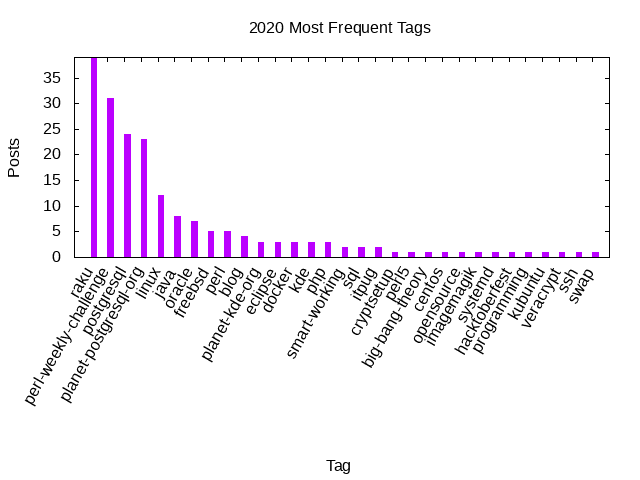
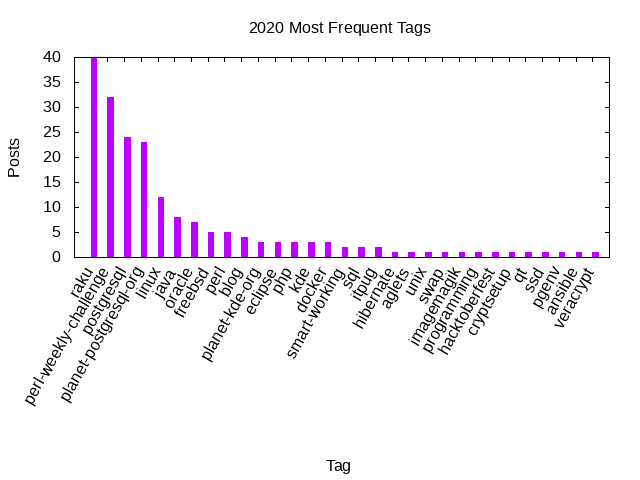
Update stats

diff --git a/_includes/stats/2020.md b/_includes/stats/2020.md
@@ -1,11 +1,11 @@
 ## 2020 (work in progress)
 
-**95 total posts** have been written on 2020.
+**96 total posts** have been written on 2020.
 There have been *52 different tags* used, the most
 popular being (sorted by number of posts):
  
-- *raku* (39 posts)  
-- *perl-weekly-challenge* (31 posts)  
+- *raku* (40 posts)  
+- *perl-weekly-challenge* (32 posts)  
 - *postgresql* (24 posts)  
 - *planet-postgresql-org* (23 posts)  
 - *linux* (12 posts)  
@@ -16,25 +16,25 @@ popular being (sorted by number of posts):
 - *blog* (4 posts)  
 - *planet-kde-org* (3 posts)  
 - *eclipse* (3 posts)  
-- *docker* (3 posts)  
-- *kde* (3 posts)  
 - *php* (3 posts)  
+- *kde* (3 posts)  
+- *docker* (3 posts)  
 - *smart-working* (2 posts)  
 - *sql* (2 posts)  
 - *itpug* (2 posts)  
-- *cryptsetup* (1 posts)  
-- *perl5* (1 posts)  
-- *big-bang-theory* (1 posts)  
-- *centos* (1 posts)  
-- *opensource* (1 posts)  
+- *hibernate* (1 posts)  
+- *aglets* (1 posts)  
+- *unix* (1 posts)  
+- *swap* (1 posts)  
 - *imagemagik* (1 posts)  
-- *systemd* (1 posts)  
-- *hacktoberfest* (1 posts)  
 - *programming* (1 posts)  
-- *kubuntu* (1 posts)  
-- *veracrypt* (1 posts)  
-- *ssh* (1 posts)  
-- *swap* (1 posts).<br/>
+- *hacktoberfest* (1 posts)  
+- *cryptsetup* (1 posts)  
+- *qt* (1 posts)  
+- *ssd* (1 posts)  
+- *pgenv* (1 posts)  
+- *ansible* (1 posts)  
+- *veracrypt* (1 posts).<br/>
 <br/>
 The following is the overall 2020 post ratio by month:
 <br/>
@@ -53,7 +53,7 @@ The following is the overall 2020 post ratio by tag (showing max 30 tags):
 
 <div align="right">
 <small>
-Last generated on 2020-07-27 at 18:04
+Last generated on 2020-08-03 at 12:41
 </small>
 </div>
 
